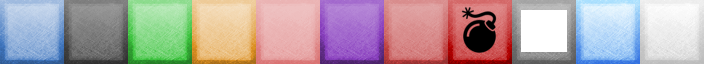
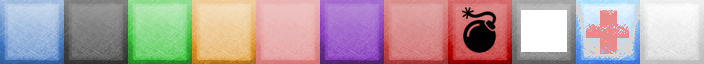
Implemented heal block, adjustment to fever matching logic

Changed region(s): [[0.8125, 0.0312, 0.9062, 0.9062]]

diff --git a/src/Game/Core/GridManager.js b/src/Game/Core/GridManager.js
@@ -62,6 +62,15 @@ var GridManager = cc.Node.extend({
 				this.processRainbow(data.sourceBlock, data.colorId);
 			}
 		}, this);
+
+		cc.eventManager.addListener({
+			event : cc.EventListener.CUSTOM,
+			eventName : 'heal',
+			callback : (e) => {
+				var sourceBlock = e.getUserData();
+				this.processHeal(sourceBlock);
+			}
+		}, this);
 	},
 
 	onEnter : function() {
@@ -182,11 +191,6 @@ var GridManager = cc.Node.extend({
 			getSlot(coord.y - 1, coord.x); // D
 			getSlot(coord.y, coord.x - 1); // R
 			getSlot(coord.y + 1, coord.x); // U
-
-			getSlot(coord.y - 1, coord.x - 1);
-			getSlot(coord.y + 1, coord.x + 1);
-			getSlot(coord.y - 1, coord.x + 1);
-			getSlot(coord.y + 1, coord.x - 1);
 		}
 
 		if (matches.size > 0) {
@@ -430,6 +434,29 @@ var GridManager = cc.Node.extend({
 		this.parent.addCombo(collected);
 
 		var seq = this.createProcessSequence(effectDuration, 1, row);
+		this.runAction(seq);
+	},
+
+	processHeal : function(sourceBlock) {
+		this.isBusy = true;
+		this.scanBar.doPause();
+
+		var sourceSlot = this.getSlotOfBlock(sourceBlock);
+		var row = sourceSlot.gridPos.y;
+		sourceSlot.block = null;
+
+		var effects = [];
+		var effectDuration = 0;
+		effects.push(cc.scaleTo(1, 1.5, 1.5));
+		effects.push(cc.fadeTo(1, 0));
+		var del = cc.callFunc(() => this.removeChild(sourceBlock));
+		var spawn = cc.spawn(effects);
+		effectDuration = spawn.getDuration();
+		sourceBlock.runAction(cc.sequence([spawn, del]));
+
+		this.parent.addCombo([sourceBlock]);
+
+		var seq = this.createProcessSequence(effectDuration, row + 1, row);
 		this.runAction(seq);
 	},
 

diff --git a/src/Game/Core/Block.js b/src/Game/Core/Block.js
@@ -56,16 +56,6 @@ var Block = cc.Node.extend({
 
 	onScan : function() {
 		// Override in subclass
-
-		// /!\ MUST notify GridManager of completion by sending custom event, e.g.
-		/*
-
-		cc.eventManager.dispatchCustomEvent(
-			'done',
-			sourceBlock : this.block
-		);
-
-		*/
 	},
 
 	hasMatchComponent : function(name) {
@@ -96,7 +86,7 @@ Block.isItem = function(value) {
 }
 
 Block.isEnemy = function(value) {
-	return value >= Block.COLOR_RANGE && value < 12000; // TODO
+	return value >= Block.COLOR_RANGE && value < 12000; // TEMP
 }
 
 // Factory functions
@@ -114,7 +104,7 @@ Block.createRainbowBlock = function() {
 }
 
 Block.createHealBlock = function() {
-	
+	return new HealBlock();
 }
 
 Block.createEnemyBlock = function() {

diff --git a/src/Game/Core/HealBlock.js b/src/Game/Core/HealBlock.js
@@ -1,0 +1,40 @@
+var HealBlock = Block.extend({
+	active : false,
+
+	ctor : function() {
+		this._super(Block.ITEM_RANGE + 2);
+
+		this.blockTouched = [ new Block.Attributes.LightUp(this, cc.color(0, 255, 0), 0.3, null) ];
+
+		this.value = 100;
+	},
+
+	onEnter : function() {
+		this._super();
+	},
+
+	onTouch : function(touch, e) {
+		if (this.active) {
+			return;
+		}
+
+		this.active = true;
+		this.priority = Date.now();
+		this.blockTouched[0].handle();
+	},
+
+	onScan : function() {
+		if (!this.active) {
+			return;
+		}
+
+		cc.eventManager.dispatchCustomEvent(
+			'heal',
+			this
+		);
+	},
+
+	onExit : function() {
+		this._super();
+	}
+});

diff --git a/src/Game/Core/GridGen.js b/src/Game/Core/GridGen.js
@@ -42,7 +42,7 @@ GridGen.prototype.getRandomBlock = function() {
 	if (rand < 0.94)
 		return Block.createColorBlock(Math.floor(Math.random() * 5));
 	else if (rand < 0.96)
-		return Block.createBombBlock(1, 2);
+		return Block.createHealBlock(); //Block.createBombBlock(1, 2);
 	else if (rand < 0.98)
 		return Block.createRainbowBlock();
 	else if (rand < 1)
